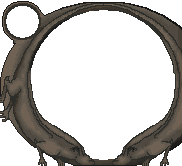
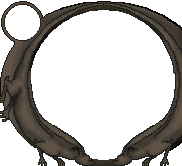
Minimap/stats
Reworked minimap.
Added stats folder.
Reworked Transparent Chatbox.
Changed pictures in readme to match the interface changes.

diff --git a/README.md b/README.md
@@ -6,8 +6,8 @@ This pack was created to recreate the gameframe of late 2006, when hunter was re
 Hope you enjoy
 
 ## Resizeable mode
-![ResizeableMode](https://i.imgur.com/EqVb9g1.png)
-![ResizeableMode](https://i.imgur.com/8CrAT8D.png)
+![ResizeableMode](https://i.imgur.com/OjNXqQ1.png)
+![ResizeableMode](https://i.imgur.com/lxsu2hs.png)
 
 ## Fixed mode
 ![FixedMode](https://i.imgur.com/9epAOPJ.png)
@@ -29,4 +29,4 @@ Hope you enjoy
 If you prefer to have the chat and stones behind the buttons underneath transparent like the example above, download the following image and replace `background.png` in the chatbox folder. For the stones behind the buttons, open up `buttons_background_stones.png` in the chatbox folder and make the whole image fully transparent.
 
 #### Background
-![ChatBackground](https://i.imgur.com/6hQaI1L.png)
+![ChatBackground](https://i.imgur.com/yHgxSTe.png)
